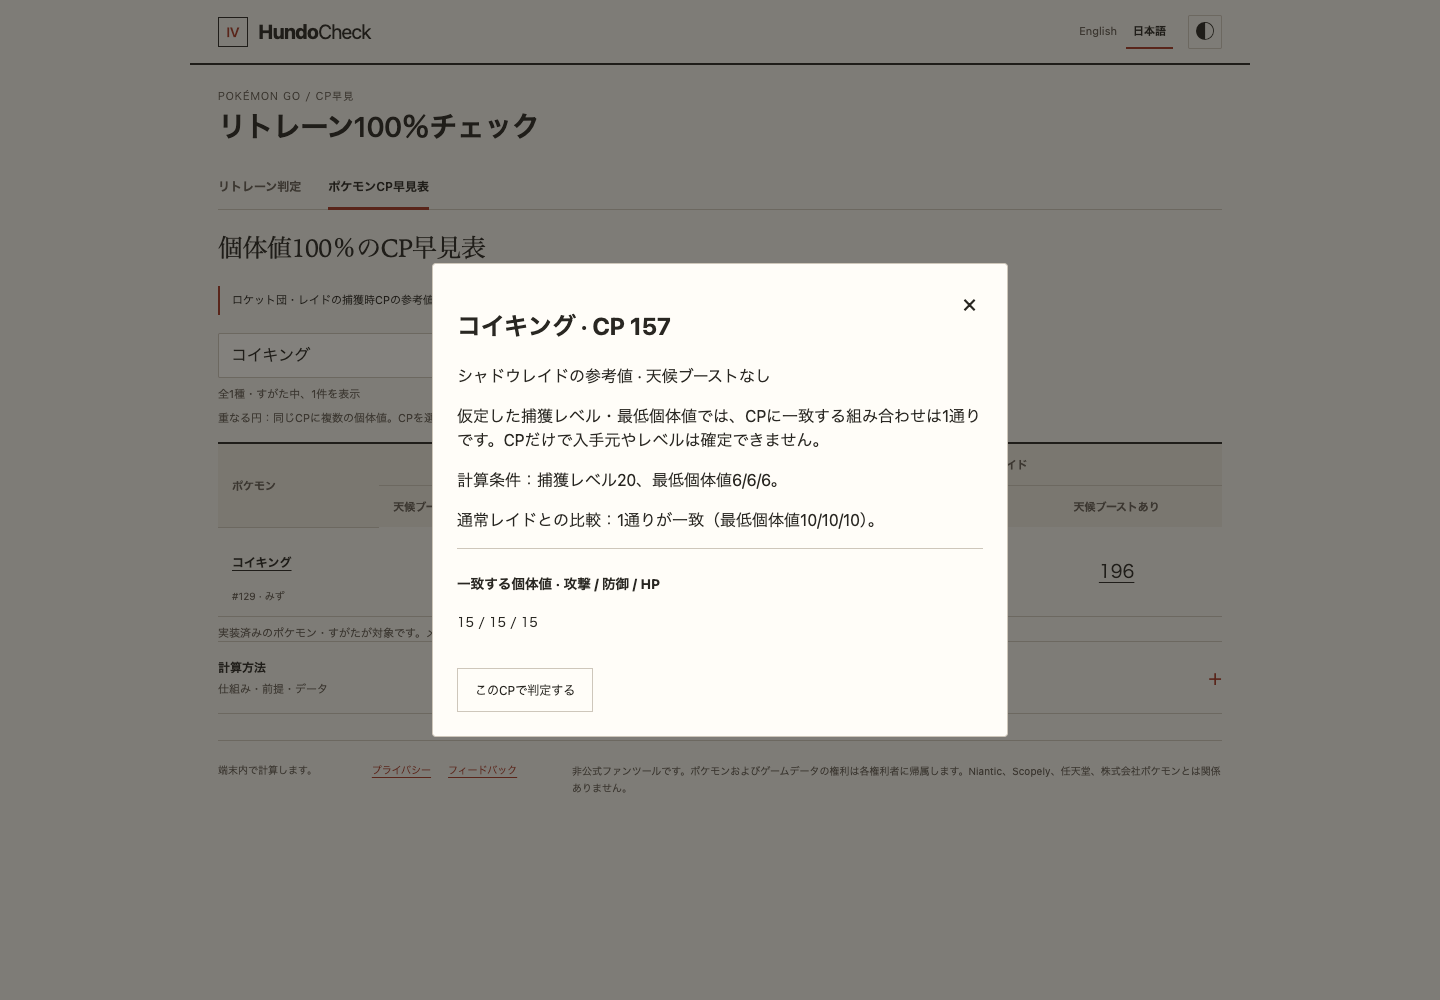
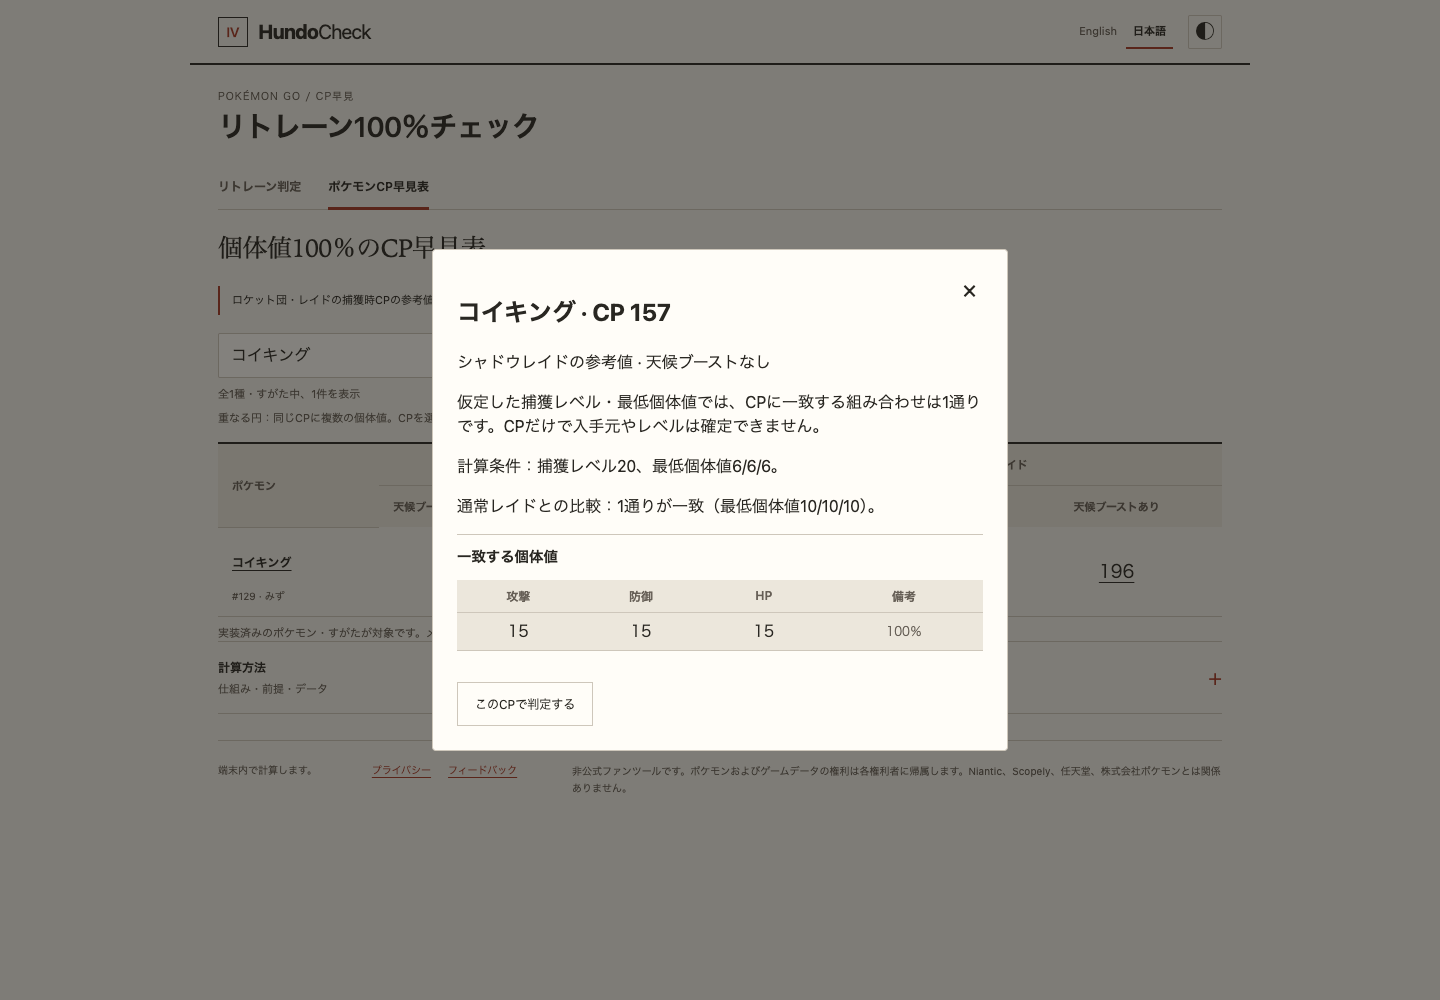
Make collision IV spreads readable as aligned table rows

Changed region(s): [[0.2812, 0.248, 0.7188, 0.651], [0.2812, 0.682, 0.7188, 0.775]]

diff --git a/tests/ui/collision-readability.spec.ts b/tests/ui/collision-readability.spec.ts
@@ -1,0 +1,77 @@
+import { test, expect } from "@playwright/test";
+import AxeBuilder from "@axe-core/playwright";
+test("collision IV table separates Weedle and Magikarp spreads in both themes and languages", async ({
+  page,
+}, info) => {
+  await page.setViewportSize(
+    info.project.name.includes("mobile")
+      ? { width: 320, height: 800 }
+      : { width: 1440, height: 1000 },
+  );
+  for (const lang of ["en", "ja"])
+    for (const theme of ["light", "dark"])
+      for (const [species, count] of [
+        ["WEEDLE", 4],
+        ["MAGIKARP", 10],
+      ] as const) {
+        await page.goto(
+          `?species=${species}&view=reference&q=${species}&lang=${lang}`,
+        );
+        await page.evaluate((theme) => {
+          document.documentElement.dataset.theme = theme;
+        }, theme);
+        await page
+          .locator(
+            `[data-cp-species=${species}][data-cp-group=rocket][data-cp-boosted=false]`,
+          )
+          .click();
+        const table = page.locator(".reference-ivs");
+        await expect(table.locator("tbody tr")).toHaveCount(count);
+        await expect(table.locator("thead th")).toHaveText(
+          lang === "en"
+            ? ["Attack", "Defense", "HP", "Note"]
+            : ["攻撃", "防御", "HP", "備考"],
+        );
+        const perfect = table.locator("tr[data-perfect=true]");
+        await expect(perfect).toHaveCount(1);
+        await expect(perfect.locator("td")).toHaveText([
+          "15",
+          "15",
+          "15",
+          lang === "en" ? "Perfect" : "100％",
+        ]);
+        for (const row of await table.locator("tbody tr").all()) {
+          const cells = await row.locator("td").all();
+          expect(cells).toHaveLength(4);
+          const boxes = await Promise.all(
+            cells.slice(0, 3).map((c) => c.boundingBox()),
+          );
+          expect(boxes.every(Boolean)).toBe(true);
+          expect(new Set(boxes.map((b) => b!.y)).size).toBe(1);
+        }
+        expect(
+          await table.evaluate((e) => e.scrollWidth <= e.clientWidth),
+        ).toBe(true);
+        expect(
+          await page
+            .locator("#reference-dialog")
+            .evaluate((e) => e.scrollWidth <= e.clientWidth),
+        ).toBe(true);
+        if (species === "WEEDLE")
+          expect(
+            (
+              await new AxeBuilder({ page })
+                .withTags(["wcag2a", "wcag2aa", "wcag21aa"])
+                .analyze()
+            ).violations,
+          ).toEqual([]);
+        if (
+          (species === "WEEDLE" && theme === "dark") ||
+          (species === "MAGIKARP" && theme === "light")
+        )
+          await page.screenshot({
+            path: `qa/${info.project.name}-iv-table-${species.toLowerCase()}-${lang}-${theme}.png`,
+            fullPage: true,
+          });
+      }
+});

diff --git a/src/main.ts b/src/main.ts
@@ -376,7 +376,16 @@ function showReference(p: Species, group: string, boosted: boolean) {
       : t(p.shadow ? "shadowRaidRef" : "normalRaidRef");
   $("#reference-dialog-title").textContent = `${nameOf(p)} · CP ${r.cp}`;
   $("#reference-dialog-content").innerHTML =
-    `<p>${context} · ${t(boosted ? "boosted" : "normal")}</p><p>${supported ? t(r.collision ? "collisionHint" : "referenceUnique", { cp: r.cp, count: r.matches.length }) : t("refUnsupported")}</p>${supported ? `<p>${t("referenceFloor", { level: r.level, floor: r.floor })}</p>${group === "raid" && p.shadow ? `<p>${t("normalComparison", { count: referenceFor(p, group, boosted, true).matches.length })}</p>` : ""}<div class="reference-matches"><h3>${t("matchingIvs")}</h3>${r.matches.map((c) => `<code>${c.a} / ${c.d} / ${c.s}</code>`).join("")}</div>` : ""}<button id="use-reference-cp" class="secondary">${t("useCp")}</button>`;
+    `<p>${context} · ${t(boosted ? "boosted" : "normal")}</p><p>${supported ? t(r.collision ? "collisionHint" : "referenceUnique", { cp: r.cp, count: r.matches.length }) : t("refUnsupported")}</p>${
+      supported
+        ? `<p>${t("referenceFloor", { level: r.level, floor: r.floor })}</p>${group === "raid" && p.shadow ? `<p>${t("normalComparison", { count: referenceFor(p, group, boosted, true).matches.length })}</p>` : ""}<div class="reference-matches"><table class="reference-ivs"><caption>${t("matchingIvs")}</caption><thead><tr><th scope="col">${t("ivAttack")}</th><th scope="col">${t("ivDefense")}</th><th scope="col">${t("ivHp")}</th><th scope="col">${t("ivNote")}</th></tr></thead><tbody>${r.matches
+            .map((c) => {
+              const perfect = c.a === 15 && c.d === 15 && c.s === 15;
+              return `<tr data-perfect="${perfect}"><td>${c.a}</td><td>${c.d}</td><td>${c.s}</td><td>${perfect ? t("perfectIv") : ""}</td></tr>`;
+            })
+            .join("")}</tbody></table></div>`
+        : ""
+    }<button id="use-reference-cp" class="secondary">${t("useCp")}</button>`;
   $("#use-reference-cp").addEventListener("click", () => {
     referenceDialog.close();
     choose(p.id);

diff --git a/src/i18n.ts b/src/i18n.ts
@@ -43,7 +43,12 @@ const en = {
     "Level-specific CP reference only. The standard Rocket model is not supported for this species/form; no collision or IV-odds claim is made.",
   useCp: "Use this CP in the checker",
   close: "Close",
-  matchingIvs: "Matching IVs · Attack / Defense / HP",
+  matchingIvs: "Matching IV spreads",
+  ivAttack: "Attack",
+  ivDefense: "Defense",
+  ivHp: "HP",
+  ivNote: "Note",
+  perfectIv: "Perfect",
   referenceDetails: "CP reference details",
   referenceFloor:
     "Calculation assumptions: catch level {level}, minimum IVs {floor}/{floor}/{floor}.",
@@ -202,7 +207,12 @@ const ja: typeof en = {
     "指定レベルでのCP参考値のみです。この種族・すがたには通常のロケット団モデルを適用しないため、個体値の一致数や確率は示しません。",
   useCp: "このCPで判定する",
   close: "閉じる",
-  matchingIvs: "一致する個体値 · 攻撃 / 防御 / HP",
+  matchingIvs: "一致する個体値",
+  ivAttack: "攻撃",
+  ivDefense: "防御",
+  ivHp: "HP",
+  ivNote: "備考",
+  perfectIv: "100％",
   referenceFloor:
     "計算条件：捕獲レベル{level}、最低個体値{floor}/{floor}/{floor}。",
   referenceDetails: "CP参考値の詳細",

diff --git a/src/app.css b/src/app.css
@@ -1291,12 +1291,44 @@ html[lang="ja"] .view-tabs button {
   margin: 1rem 0;
   padding-top: 0.7rem;
 }
-.reference-matches code {
-  display: inline-block;
-  margin: 0.25rem 0.8rem 0.25rem 0;
+.reference-ivs {
+  width: 100%;
+  border-collapse: collapse;
+  table-layout: fixed;
+  font-variant-numeric: tabular-nums;
 }
-.reference-matches h3 {
-  font-size: 0.85rem;
+.reference-ivs caption {
+  text-align: left;
+  font-size: 0.9rem;
+  font-weight: 650;
+  padding-bottom: 0.7rem;
+}
+.reference-ivs th,
+.reference-ivs td {
+  padding: 0.45rem 0.3rem;
+  text-align: center;
+  border-bottom: 1px solid var(--line);
+  white-space: nowrap;
+}
+.reference-ivs th {
+  color: var(--muted);
+  font-size: 0.75rem;
+  font-weight: 600;
+}
+.reference-ivs td {
+  font-size: 1rem;
+  line-height: 1.4;
+}
+.reference-ivs th:last-child {
+  width: 30%;
+}
+.reference-ivs td:last-child {
+  font-size: 0.75rem;
+  color: var(--muted);
+}
+.reference-ivs tr[data-perfect="true"] {
+  background: var(--soft);
+  font-weight: 650;
 }
 .reference-legend {
   max-width: 70ch;

diff --git a/tests/ui/reference.spec.ts b/tests/ui/reference.spec.ts
@@ -48,7 +48,7 @@ test("collision marker opens touch and keyboard accessible exact IV details in b
   await expect(page.locator("#reference-dialog")).toContainText(
     "10 IV spreads",
   );
-  await expect(page.locator(".reference-matches code")).toHaveCount(10);
+  await expect(page.locator(".reference-ivs tbody tr")).toHaveCount(10);
   expect(
     (
       await new AxeBuilder({ page })
